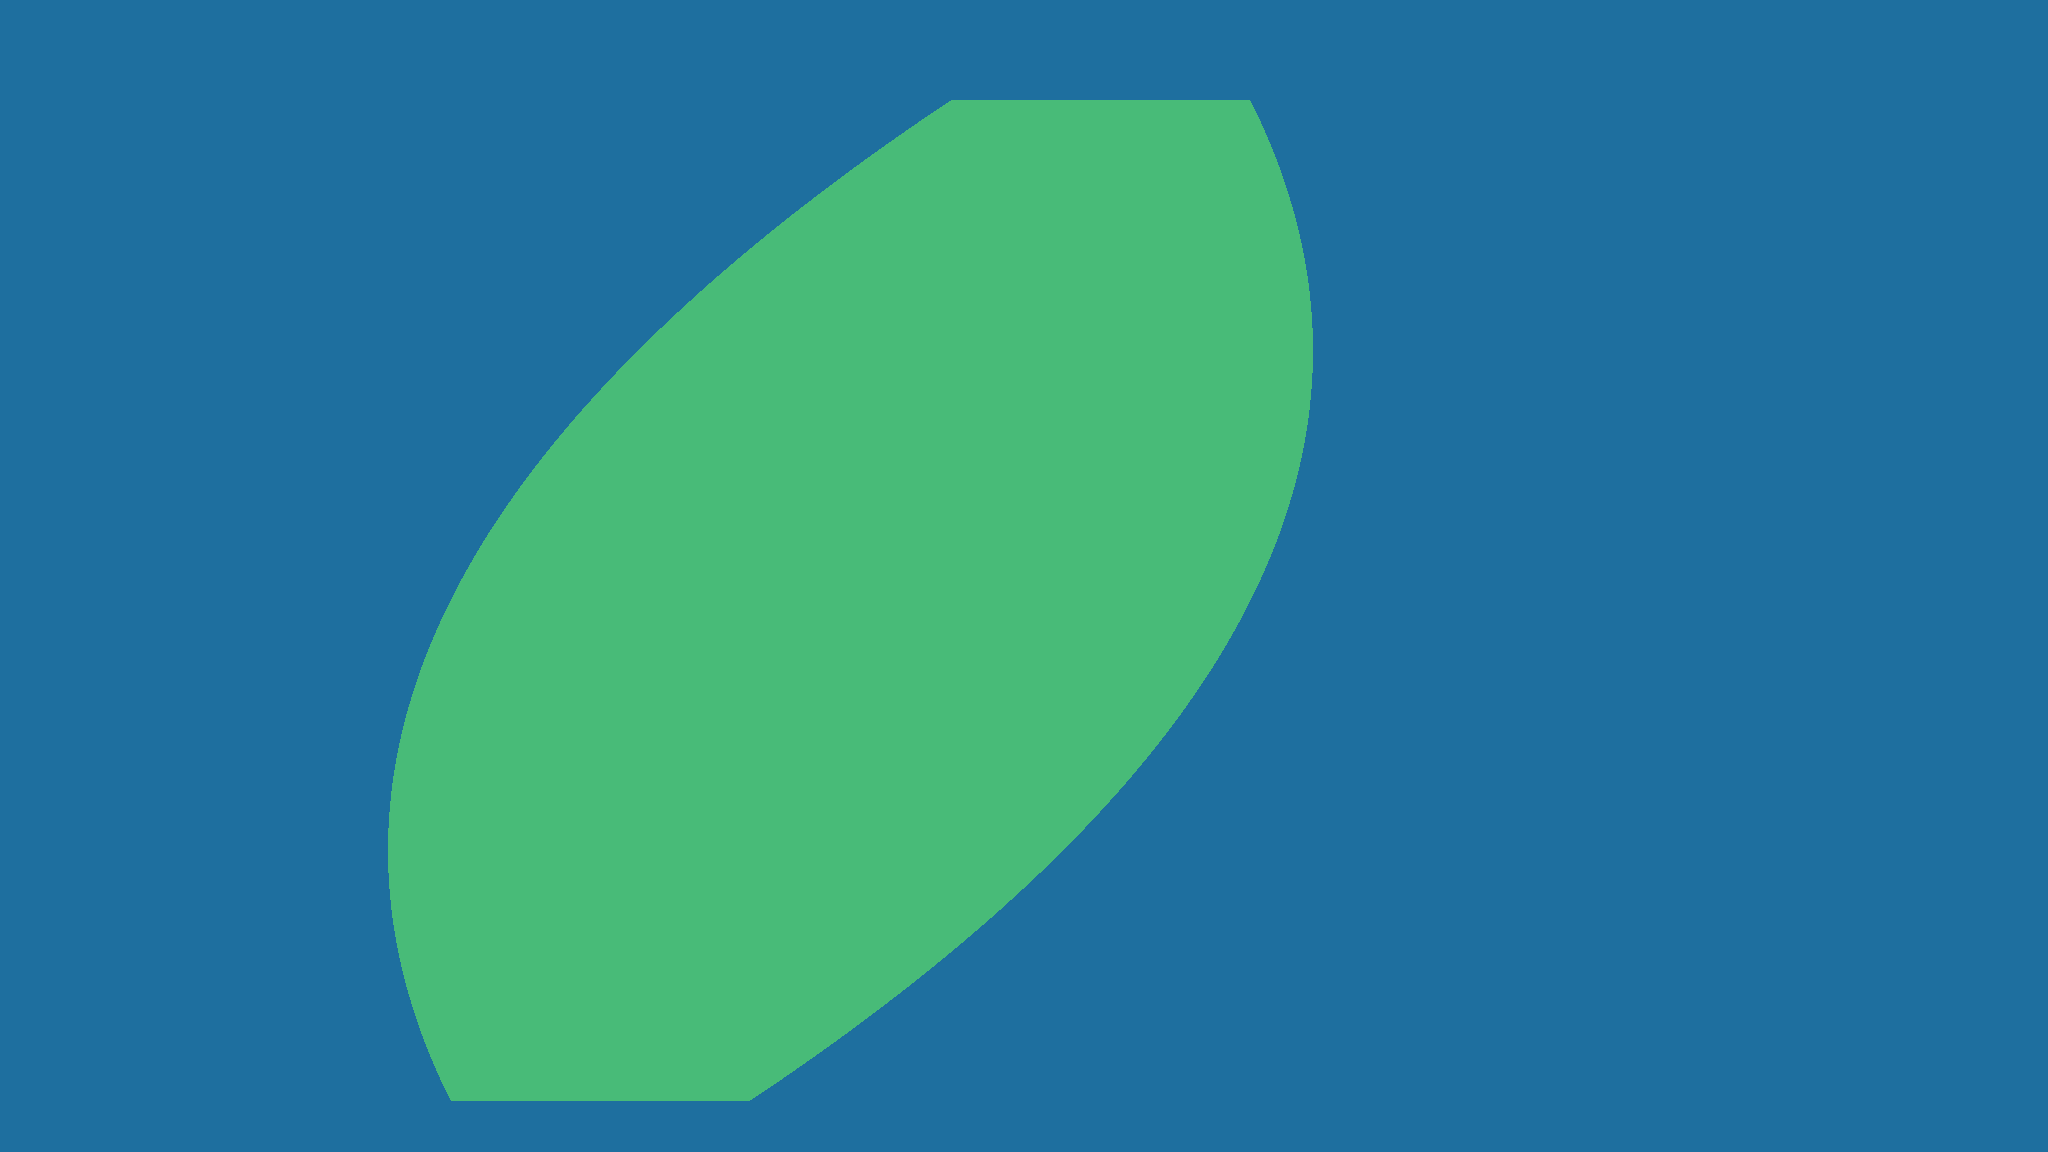
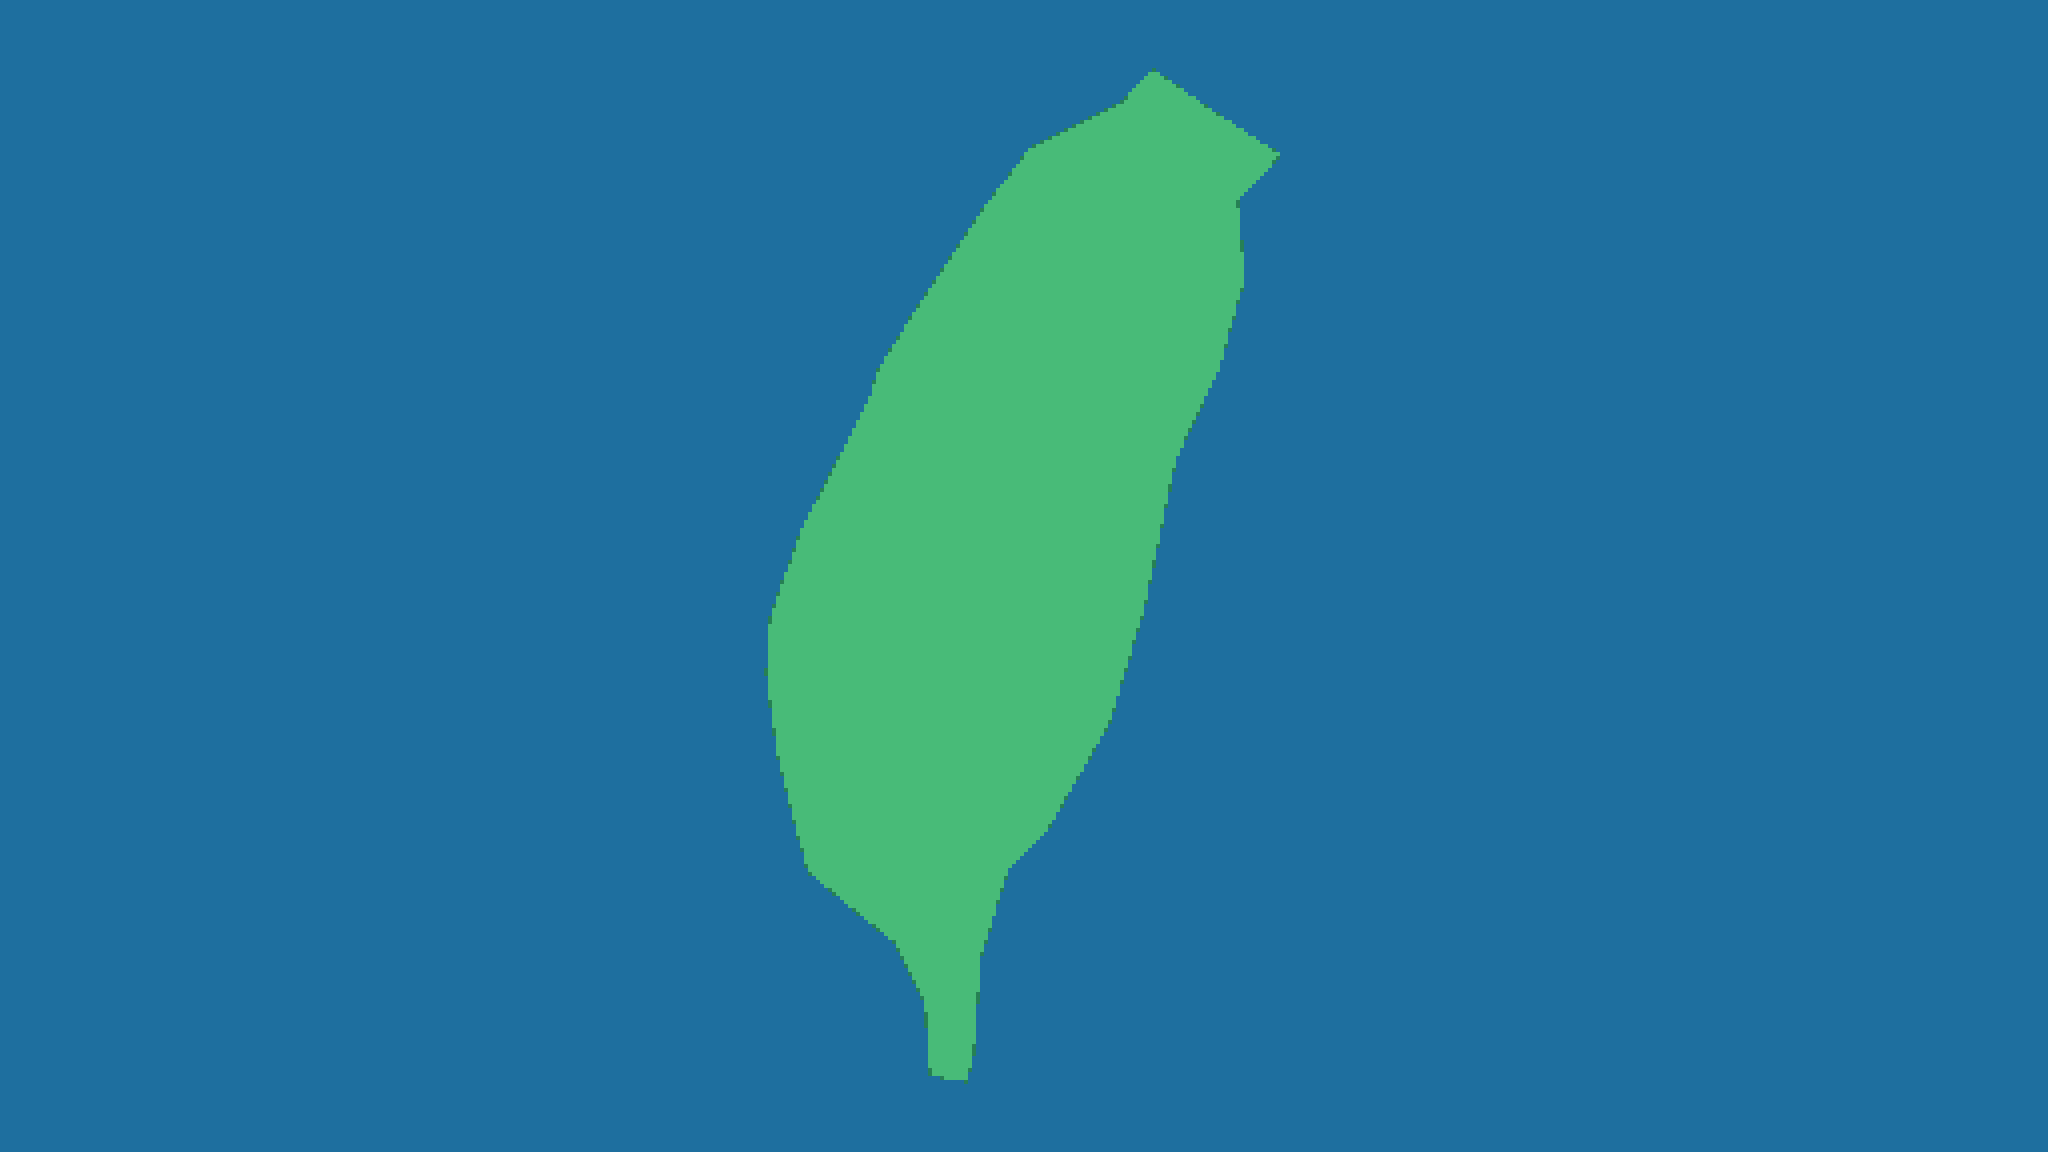
fix: replace placeholder map and self-inconsistent calibration anchors
The shipped map asset was a two-colour placeholder blob with no coastline
or landmarks, so the calibration anchors could not have been derived from
it and were placeholders too. Two of them were badly wrong: Kaohsiung and
Eluanbi had x values that broke monotonicity against longitude.

IDW carries no geographic knowledge of its own — its output is a weighted
average of the anchor pixels, so a wrong anchor silently corrupts every
projection near it. Pingtung, which lies east of Kaohsiung, projected to
its west; the error was 73% attributable to the Kaohsiung anchor alone.

Adds tool/generate_taiwan_map.py, which draws a simplified real coastline
under an equidistant projection and derives every anchor from the same
linear formula, so the anchors are consistent by construction. The result
is a transitional asset, not final art: the eventual hand-drawn map will
exaggerate distances, and the anchors will then be re-measured against it.

Tests were written first and failed on the old data exactly as expected.
They assert data properties rather than fixed pixels, so re-measuring the
anchors later will not require rewriting them.

Still outstanding, deliberately left for the spec and plan stages:
snapToRoad matches the nearest node rather than the nearest segment, its
default threshold of 40px exceeds the 35px POI trigger radius, and four
of the five road nodes sit exactly on POIs — so snapping can teleport a
player onto a POI and fire an encounter from kilometres away.

Changed region(s): [[0.1875, 0.0625, 0.6562, 0.9688]]

diff --git a/test/taiwan_map_manifest_test.dart b/test/taiwan_map_manifest_test.dart
@@ -1,0 +1,98 @@
+import 'package:flutter_test/flutter_test.dart';
+import 'package:share_tour/game/map_module/manifests/taiwan_map_manifest.dart';
+
+/// 錨點資料的回歸測試。
+///
+/// IDW 投影本身沒有地理知識，輸出完全由錨點的像素座標決定。
+/// 錨點若不自洽，投影就會在該區域產生方位錯誤，而這種錯誤
+/// 從演算法看不出來，只能靠對資料本身的約束來擋。
+void main() {
+  final manifest = TaiwanMapManifest();
+
+  group('錨點資料自洽性', () {
+    test('像素 x 隨經度單調遞增', () {
+      final sorted = [...manifest.anchors]..sort((a, b) => a.lng.compareTo(b.lng));
+      for (var i = 0; i < sorted.length - 1; i++) {
+        final west = sorted[i];
+        final east = sorted[i + 1];
+        expect(
+          west.pixelPos.x,
+          lessThan(east.pixelPos.x),
+          reason: '${west.name}(lng ${west.lng}) 在 ${east.name}(lng ${east.lng}) 以西，'
+              '像素 x 卻不小於它：${west.pixelPos.x} vs ${east.pixelPos.x}',
+        );
+      }
+    });
+
+    test('像素 y 隨緯度單調遞減', () {
+      final sorted = [...manifest.anchors]..sort((a, b) => a.lat.compareTo(b.lat));
+      for (var i = 0; i < sorted.length - 1; i++) {
+        final south = sorted[i];
+        final north = sorted[i + 1];
+        expect(
+          south.pixelPos.y,
+          greaterThan(north.pixelPos.y),
+          reason: '${south.name} 在 ${north.name} 以南，像素 y 卻不大於它',
+        );
+      }
+    });
+
+    test('所有錨點落在畫布範圍內', () {
+      for (final a in manifest.anchors) {
+        expect(a.pixelPos.x, inInclusiveRange(0, manifest.mapDimensions.x));
+        expect(a.pixelPos.y, inInclusiveRange(0, manifest.mapDimensions.y));
+      }
+    });
+  });
+
+  group('投影方位正確性', () {
+    // 以真實地點驗證投影後的相對方位。這些點刻意不是錨點，
+    // 才能驗證 IDW 在錨點之間的插值結果，而非只驗證錨點命中。
+    test('屏東市投影後位於高雄以東', () {
+      final pingtung = manifest.projectGpsToPixel(22.669, 120.488);
+      final kaohsiung = manifest.projectGpsToPixel(22.611, 120.300);
+      expect(
+        pingtung.x,
+        greaterThan(kaohsiung.x),
+        reason: '屏東(lng 120.488) 在高雄(lng 120.300) 以東，投影後 x 應更大',
+      );
+    });
+
+    test('岡山投影後位於高雄以北', () {
+      final gangshan = manifest.projectGpsToPixel(22.796, 120.295);
+      final kaohsiung = manifest.projectGpsToPixel(22.611, 120.300);
+      expect(gangshan.y, lessThan(kaohsiung.y), reason: '岡山在高雄以北，投影後 y 應更小');
+    });
+
+    test('新竹投影後位於台中以北、台北以南', () {
+      final hsinchu = manifest.projectGpsToPixel(24.804, 120.972);
+      final taichung = manifest.projectGpsToPixel(24.163, 120.640);
+      final taipei = manifest.projectGpsToPixel(25.034, 121.564);
+      expect(hsinchu.y, lessThan(taichung.y));
+      expect(hsinchu.y, greaterThan(taipei.y));
+    });
+  });
+
+  group('POI 與道路節點', () {
+    test('每個 POI 都落在畫布內', () {
+      for (final poi in manifest.poiNodes) {
+        expect(poi.pixelPosition.x, inInclusiveRange(0, manifest.mapDimensions.x));
+        expect(poi.pixelPosition.y, inInclusiveRange(0, manifest.mapDimensions.y));
+      }
+    });
+
+    test('POI 之間的距離大於觸發半徑總和，避免同時觸發兩個遭遇', () {
+      final pois = manifest.poiNodes;
+      for (var i = 0; i < pois.length; i++) {
+        for (var j = i + 1; j < pois.length; j++) {
+          final d = pois[i].pixelPosition.distanceTo(pois[j].pixelPosition);
+          expect(
+            d,
+            greaterThan(pois[i].triggerRadius + pois[j].triggerRadius),
+            reason: '${pois[i].title} 與 ${pois[j].title} 的觸發範圍重疊',
+          );
+        }
+      }
+    });
+  });
+}

diff --git a/lib/game/map_module/manifests/taiwan_map_manifest.dart b/lib/game/map_module/manifests/taiwan_map_manifest.dart
@@ -22,14 +22,14 @@ class TaiwanMapManifest implements OverworldMapManifest {
 
   @override
   List<GeoAnchor> get anchors => [
-    GeoAnchor(name: '基隆北端', lat: 25.150, lng: 121.750, pixelPos: Vector2(1250, 120)),
-    GeoAnchor(name: '台北101', lat: 25.034, lng: 121.564, pixelPos: Vector2(1050, 180)),
-    GeoAnchor(name: '台中歌劇院', lat: 24.163, lng: 120.640, pixelPos: Vector2(620, 480)),
-    GeoAnchor(name: '日月潭', lat: 23.858, lng: 120.916, pixelPos: Vector2(740, 610)),
-    GeoAnchor(name: '阿里山', lat: 23.510, lng: 120.803, pixelPos: Vector2(660, 690)),
-    GeoAnchor(name: '台南赤崁樓', lat: 22.997, lng: 120.202, pixelPos: Vector2(410, 780)),
-    GeoAnchor(name: '高雄85大樓', lat: 22.611, lng: 120.300, pixelPos: Vector2(960, 890)),
-    GeoAnchor(name: '鵝鑾鼻南端', lat: 21.902, lng: 120.852, pixelPos: Vector2(1020, 1080)),
+    GeoAnchor(name: '基隆北端', lat: 25.150, lng: 121.750, pixelPos: Vector2(1213, 113)),
+    GeoAnchor(name: '台北101', lat: 25.034, lng: 121.564, pixelPos: Vector2(1162, 148)),
+    GeoAnchor(name: '台中歌劇院', lat: 24.163, lng: 120.640, pixelPos: Vector2(909, 408)),
+    GeoAnchor(name: '日月潭', lat: 23.858, lng: 120.916, pixelPos: Vector2(985, 499)),
+    GeoAnchor(name: '阿里山', lat: 23.510, lng: 120.803, pixelPos: Vector2(954, 603)),
+    GeoAnchor(name: '台南赤崁樓', lat: 22.997, lng: 120.202, pixelPos: Vector2(789, 756)),
+    GeoAnchor(name: '高雄85大樓', lat: 22.611, lng: 120.300, pixelPos: Vector2(816, 871)),
+    GeoAnchor(name: '鵝鑾鼻南端', lat: 21.902, lng: 120.852, pixelPos: Vector2(967, 1083)),
   ];
 
   @override
@@ -37,36 +37,36 @@ class TaiwanMapManifest implements OverworldMapManifest {
     OverworldPoiNode(
       id: 'taipei_101',
       title: '台北 101',
-      pixelPosition: Vector2(1050, 180),
+      pixelPosition: Vector2(1162, 148),
       encounterType: EncounterType.boss,
     ),
     OverworldPoiNode(
       id: 'taichung_opera',
       title: '台中歌劇院',
-      pixelPosition: Vector2(620, 480),
+      pixelPosition: Vector2(909, 408),
       encounterType: EncounterType.sightseeing,
     ),
     OverworldPoiNode(
       id: 'sun_moon_lake',
       title: '日月潭',
-      pixelPosition: Vector2(740, 610),
+      pixelPosition: Vector2(985, 499),
       encounterType: EncounterType.rest,
     ),
     OverworldPoiNode(
       id: 'kaohsiung_85',
       title: '高雄 85 大樓',
-      pixelPosition: Vector2(960, 890),
+      pixelPosition: Vector2(816, 871),
       encounterType: EncounterType.shop,
     ),
   ];
 
   @override
   List<Vector2> get roadNodes => [
-    Vector2(1050, 180),
-    Vector2(620, 480),
-    Vector2(740, 610),
-    Vector2(410, 780),
-    Vector2(960, 890),
+    Vector2(1162, 148),
+    Vector2(909, 408),
+    Vector2(985, 499),
+    Vector2(789, 756),
+    Vector2(816, 871),
   ];
 
   @override

diff --git a/test/taiwan_geo_calibrator_test.dart b/test/taiwan_geo_calibrator_test.dart
@@ -7,22 +7,27 @@ void main() {
   group('TaiwanGeoCalibrator Test', () {
     final manifest = TaiwanMapManifest();
 
+    // 斷言改為對照 manifest 的錨點資料，而非硬編碼像素值，
+    // 這樣校正錨點時不必同步修改測試。
     test('Exact match on Taipei 101 anchor', () {
-      final pixel = manifest.projectGpsToPixel(25.034, 121.564);
-      expect((pixel.x - 1050).abs() < 1.0, isTrue);
-      expect((pixel.y - 180).abs() < 1.0, isTrue);
+      final anchor = manifest.anchors.firstWhere((a) => a.name == '台北101');
+      final pixel = manifest.projectGpsToPixel(anchor.lat, anchor.lng);
+      expect((pixel.x - anchor.pixelPos.x).abs() < 1.0, isTrue);
+      expect((pixel.y - anchor.pixelPos.y).abs() < 1.0, isTrue);
     });
 
     test('Road snapping within threshold', () {
-      // Near Taipei 101 (1050, 180)
-      final rawPos = Vector2(1055, 185);
-      final snapped = TaiwanGeoCalibrator.snapToRoad(rawPos, manifest.roadNodes, threshold: 40.0);
-      expect(snapped, equals(Vector2(1050, 180)));
+      final node = manifest.roadNodes.first;
+      final rawPos = node + Vector2(5, 5);
+      final snapped =
+          TaiwanGeoCalibrator.snapToRoad(rawPos, manifest.roadNodes, threshold: 40.0);
+      expect(snapped, equals(node));
     });
 
     test('Road snapping beyond threshold keeps original position', () {
       final rawPos = Vector2(2000, 2000);
-      final snapped = TaiwanGeoCalibrator.snapToRoad(rawPos, manifest.roadNodes, threshold: 40.0);
+      final snapped =
+          TaiwanGeoCalibrator.snapToRoad(rawPos, manifest.roadNodes, threshold: 40.0);
       expect(snapped, equals(rawPos));
     });
   });

diff --git a/lib/game/universal_overworld_game.dart b/lib/game/universal_overworld_game.dart
@@ -44,7 +44,7 @@ class UniversalOverworldGame extends FlameGame with ScaleDetector {
       radius: 8,
       paint: Paint()..color = const Color(0xFFFF4757),
       anchor: Anchor.center,
-      position: Vector2(1050, 180), // 預設降落台北
+      position: Vector2(1162, 148), // 預設降落台北
     );
     await mapWorld.add(playerComponent);
 

diff --git a/tool/generate_taiwan_map.py b/tool/generate_taiwan_map.py
@@ -1,0 +1,113 @@
+#!/usr/bin/env python3
+"""
+產生過渡用的台灣像素地圖，並推導對應的校準錨點像素座標。
+
+這不是最終美術資產。目的是提供一張「近等距」的底圖，
+使錨點可用單一線性公式推導、可被回歸測試驗證，
+讓任務 C 的真機驗收得以提早進行。
+
+投影：等距長方投影 (equirectangular)，經度乘以參考緯度的 cos 值做長度修正。
+      故圖上 1 px 在東西向與南北向代表大致相同的實際距離。
+
+用法：python3 tool/generate_taiwan_map.py
+"""
+import math
+from PIL import Image, ImageDraw
+
+# --- 畫布 ---
+W, H = 2048, 1152
+MARGIN_Y = 0.06          # 上下留白比例
+OCEAN = (30, 111, 159)   # 沿用既有 oceanColor 0xFF1E6F9F
+LAND = (72, 187, 120)
+COAST = (38, 128, 84)
+
+# --- 簡化台灣本島海岸線，順時針，自北端起 (lat, lng) ---
+COASTLINE = [
+    (25.298, 121.535),  # 富貴角（北端）
+    (25.163, 121.745),  # 基隆
+    (25.007, 122.002),  # 三貂角（東北角）
+    (24.855, 121.845),  # 頭城
+    (24.596, 121.868),  # 蘇澳
+    (24.300, 121.780),  # 南澳
+    (23.986, 121.618),  # 花蓮
+    (23.480, 121.500),  # 豐濱
+    (23.100, 121.372),  # 成功
+    (22.755, 121.152),  # 台東
+    (22.610, 121.005),  # 太麻里
+    (22.320, 120.905),  # 大武
+    (22.005, 120.878),  # 旭海
+    (21.902, 120.852),  # 鵝鑾鼻（南端）
+    (21.925, 120.720),  # 貓鼻頭
+    (22.160, 120.700),  # 楓港
+    (22.368, 120.592),  # 枋寮
+    (22.468, 120.450),  # 東港
+    (22.610, 120.268),  # 高雄
+    (23.000, 120.160),  # 台南
+    (23.270, 120.118),  # 北門
+    (23.462, 120.132),  # 東石
+    (23.752, 120.248),  # 麥寮
+    (24.198, 120.498),  # 大肚溪口
+    (24.288, 120.528),  # 台中港
+    (24.492, 120.668),  # 通霄
+    (24.848, 120.928),  # 新竹
+    (25.032, 121.082),  # 觀音
+    (25.183, 121.418),  # 淡水
+]
+
+# --- 需要推導像素座標的校準地標 ---
+LANDMARKS = [
+    ('基隆北端',     25.150, 121.750),
+    ('台北101',      25.034, 121.564),
+    ('台中歌劇院',   24.163, 120.640),
+    ('日月潭',       23.858, 120.916),
+    ('阿里山',       23.510, 120.803),
+    ('台南赤崁樓',   22.997, 120.202),
+    ('高雄85大樓',   22.611, 120.300),
+    ('鵝鑾鼻南端',   21.902, 120.852),
+]
+
+lats = [p[0] for p in COASTLINE]
+lngs = [p[1] for p in COASTLINE]
+LAT_MIN, LAT_MAX = min(lats), max(lats)
+LNG_MIN, LNG_MAX = min(lngs), max(lngs)
+LAT_REF = (LAT_MIN + LAT_MAX) / 2
+KX = math.cos(math.radians(LAT_REF))     # 經度長度修正係數
+
+# 以高度為準決定比例尺，水平置中
+span_y = LAT_MAX - LAT_MIN
+span_x = (LNG_MAX - LNG_MIN) * KX
+scale = (H * (1 - 2 * MARGIN_Y)) / span_y
+off_x = (W - span_x * scale) / 2
+off_y = H * MARGIN_Y
+
+
+def project(lat, lng):
+    """經緯度 → 像素。與 manifest 的錨點推導使用同一公式。"""
+    x = off_x + (lng - LNG_MIN) * KX * scale
+    y = off_y + (LAT_MAX - lat) * scale
+    return x, y
+
+
+def main():
+    poly = [project(la, lo) for la, lo in COASTLINE]
+
+    im = Image.new('RGB', (W, H), OCEAN)
+    d = ImageDraw.Draw(im)
+    d.polygon(poly, fill=LAND, outline=COAST)
+    # 8-Bit 觀感：降取樣再放大，產生硬邊像素塊，且不做抗鋸齒
+    block = 4
+    im = im.resize((W // block, H // block), Image.NEAREST)
+    im = im.resize((W, H), Image.NEAREST)
+    im.save('assets/images/taiwan_overworld.png')
+
+    print(f'已寫出 assets/images/taiwan_overworld.png  ({W}x{H})')
+    print(f'比例尺 {scale:.2f} px/度緯度 = {110.574 * 1000 / scale:.1f} 公尺/像素（全圖一致）\n')
+    print('推導出的錨點像素座標：')
+    for name, la, lo in LANDMARKS:
+        x, y = project(la, lo)
+        print(f"    GeoAnchor(name: '{name}', lat: {la}, lng: {lo}, "
+              f"pixelPos: Vector2({x:.0f}, {y:.0f})),")
+
+
+if __name__ == '__main__':
+    main()
